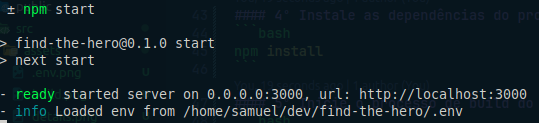
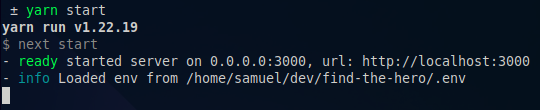
docs: update README.md

diff --git a/README.md b/README.md
@@ -1,10 +1,11 @@
-# Find the Hero, [Link do projeto](https://findthehero.vercel.app)
-<img src="public/assets/home.png" alt="Home page">
+# Find the Hero
 
-> O Find the Hero é uma aplicação Front-end que te mostra todos os personagens da Marvel Comics e suas HQs.
+O Find the Hero é uma aplicação Front-end que te mostra todos os personagens da Marvel Comics e suas HQs.
+## [Link do projeto](https://findthehero.vercel.app)
 
 ## ⚙ Funcionalidades
 * Listar todos os personagens
+  <img src="public/assets/home.png" alt="Home page">
 * Ver os detalhes de um personagem e suas HQs
   <img src="public/assets/details.png" alt="Details page">
 * Pesquisar personagens pelo nome
@@ -37,23 +38,43 @@ git clone git@github.com:SP-Sam/find-the-hero.git
 ```bash
 cd find-the-hero && code .
 ```
-#### 3º Renomeie o arquivo `.env.example` para `.env` e cole o conteúdo recebido por e-mail
-<img src="public/assets/.env.png" alt=".env">
+#### 3º Renomeie o arquivo `.env.example` para `.env`
+<img src="public/assets/env-file.png" alt=".env">
 
-#### 4º Instale as dependências do projeto
+#### 4º Cole os seguintes valores nas variáveis
 ```bash
-npm install
+NEXT_PUBLIC_MARVEL_API_BASE_URL="https://gateway.marvel.com:443/v1/public"
+NEXT_PUBLIC_MARVEL_API_PUBLIC_KEY="bf62a4b5f9a73e73bfb14891e713d3ae"
+NEXT_PUBLIC_MARVEL_API_HASH="bfb86c864e00be87b26d14429d9aacb5"
+NEXT_PUBLIC_MARVEL_API_TIMESTAMPS="1"
 ```
-#### 5º Inicie o processo de build do projeto e aguarde até estar finalizado
+
+#### 5º Instale as dependências do projeto
 ```bash
+# npm
+npm install
+
+# yarn
+yarn
+```
+#### 6º Inicie o processo de build do projeto e aguarde até estar finalizado
+```bash
+# npm
 npm run build
+
+# yarn
+yarn build
 ```
 #### Você verá algo parecido com isso no terminal
 <img src="public/assets/build.png" alt="build">
 
-#### 6º Inicie o projeto
+#### 7º Inicie o projeto
 ```bash
+# npm
 npm start
+
+# yarn
+yarn start
 ```
 #### Você verá algo parecido com isso no terminal
 <img src="public/assets/npm-start.png" alt="npm start">
@@ -63,12 +84,16 @@ npm start
 ## 🧪 Executando os testes do projeto
 O Find the Hero possui testes unitários. Para executa-los abra um terminal na raiz do projeto e rode o seguinte comando:
 ```bash
+# npm
 npm test
+
+# yarn
+yarn test
 ```
 #### Você verá algo parecido com isso no terminal
 <img src="public/assets/tests.png" alt="">
 
-#### os testes serão executados no `watch mode` do Jest. Para sair do `watch mode` basta apertar a tecla `q` ou `Ctrl+C`.
+#### Os testes serão executados no `watch mode` do Jest. Para sair do `watch mode` basta apertar a tecla `q` ou `Ctrl+C`.
 
 ## 👨💻 Desenvolvedor
 <a href="https://www.linkedin.com/in/spsam/">
@@ -80,5 +105,5 @@ npm test
 ## 🖋 Licença
 Este projeto é um desafio técnico para um processo seletivo da empresa [Fpass](https://www.fpass.com.br/), não possui fins lucrativos e não está licenciado.
 
-[⬆ Voltar ao topo](#find-the-hero-link-do-projeto)
+[⬆ Voltar ao topo](#find-the-hero)
 <br>
